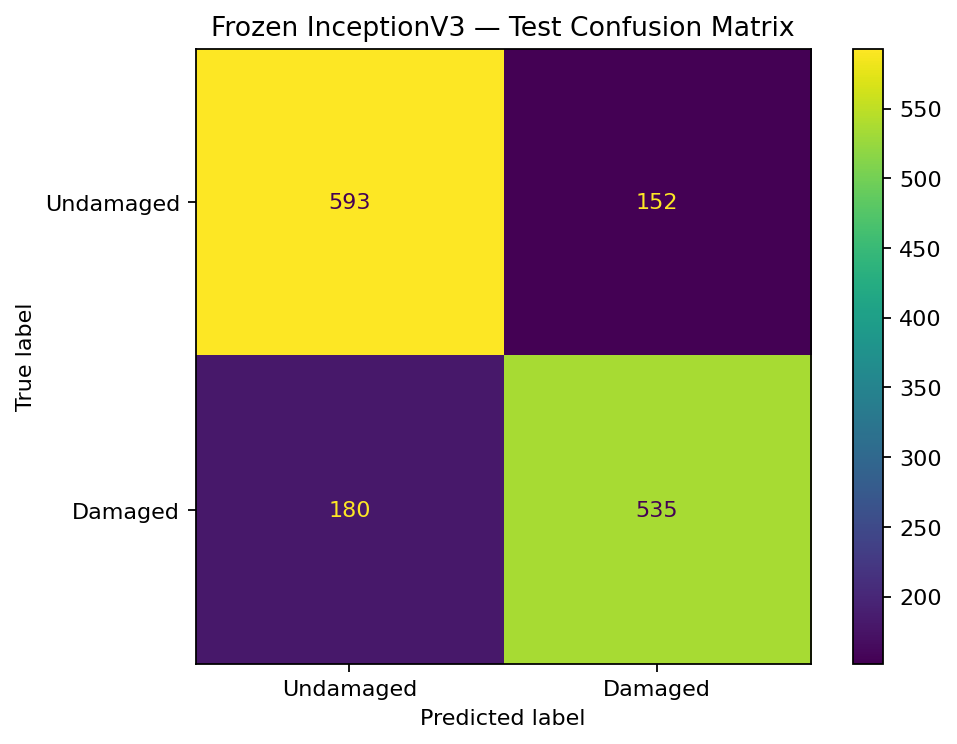
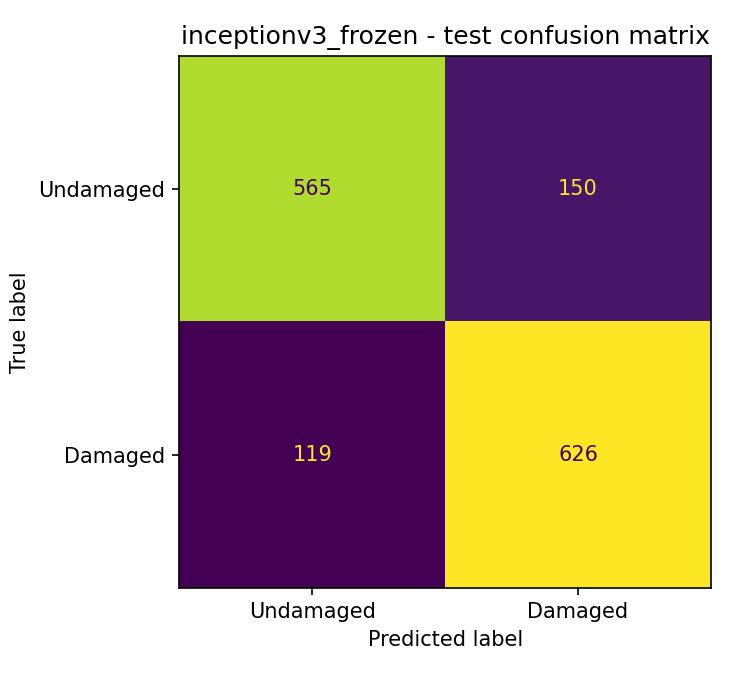
Re-run CNN experiments with correct labels; add results, confusion matrices, error gallery and model comparison

diff --git a/results/comparison.md b/results/comparison.md
@@ -1,0 +1,11 @@
+| Model | Track | Train acc | Val acc | Test acc | Precision (damaged) | Recall (damaged) | F1 (damaged) |
+|---|---|---|---|---|---|---|---|
+| hybrid_svm_mixed9 | A | 0.929 | 0.847 | 0.855 | 0.873 | 0.838 | 0.855 |
+| knn_k5 | A | 0.711 | 0.592 | 0.547 | 0.550 | 0.621 | 0.583 |
+| logreg_l2 | A | 0.855 | 0.545 | 0.564 | 0.563 | 0.650 | 0.603 |
+| svm_rbf | A | 0.842 | 0.644 | 0.638 | 0.620 | 0.750 | 0.679 |
+| inceptionv3_frozen | B | 0.850 | 0.804 | 0.816 | 0.807 | 0.840 | 0.823 |
+| mobilenetv2_finetune30 | B | 0.919 | 0.848 | 0.845 | 0.815 | 0.899 | 0.855 |
+| mobilenetv2_finetune30_aug | B | 0.924 | 0.858 | 0.864 | 0.845 | 0.899 | 0.871 |
+| mobilenetv2_frozen | B | 0.859 | 0.831 | 0.840 | 0.822 | 0.875 | 0.848 |
+| mobilenetv2_frozen_aug | B | 0.838 | 0.814 | 0.832 | 0.818 | 0.862 | 0.839 |
